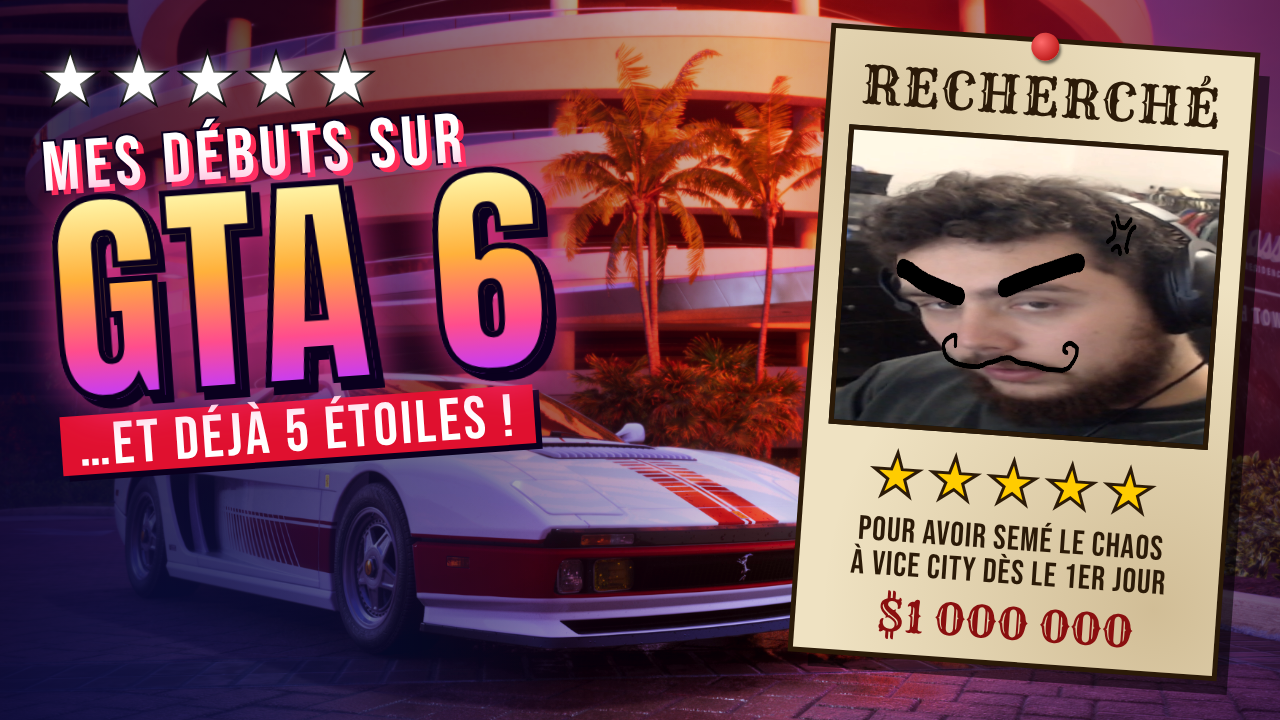
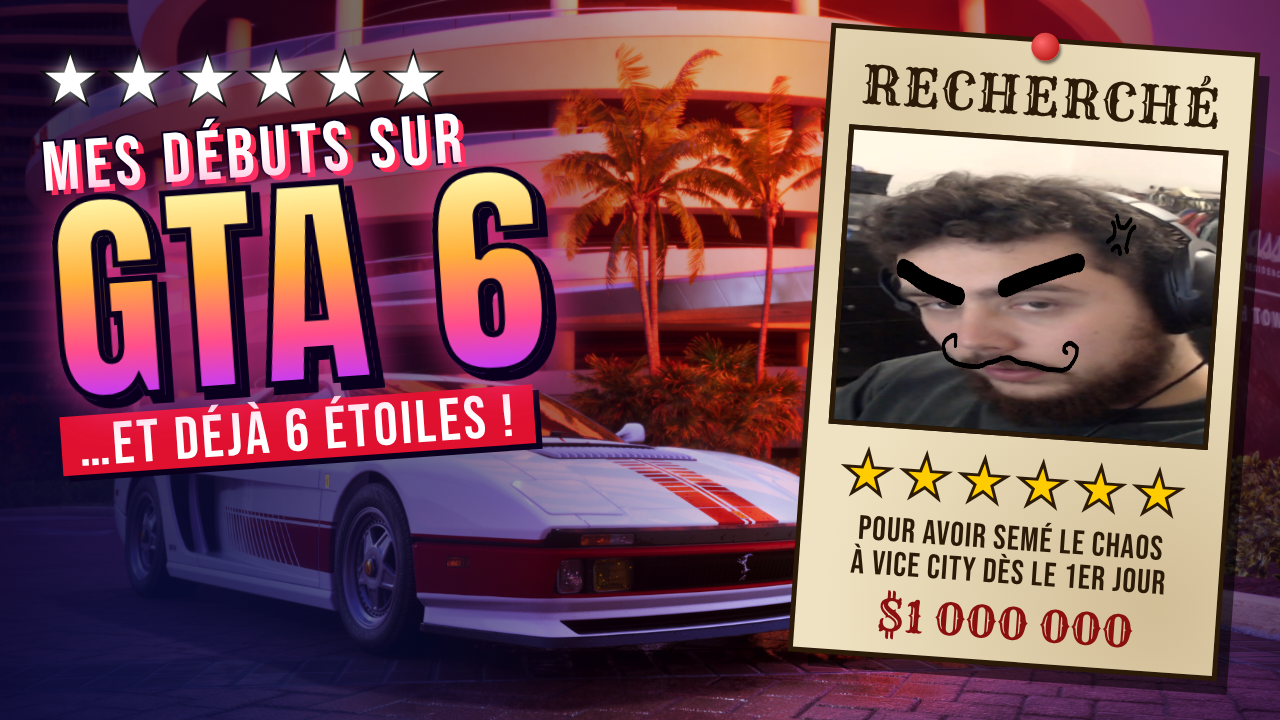
Miniature avis de recherche : passage à 6 étoiles
Claude-Session: https://claude.ai/code/session_01LJ5P5jm4XEp8Dd6zKwhc6v

Changed region(s): [[0.6562, 0.6111, 0.9375, 0.7333], [0.2812, 0.0611, 0.3438, 0.1528], [0.2188, 0.5806, 0.25, 0.6111]]

diff --git a/miniature/miniature-recherche.html b/miniature/miniature-recherche.html
@@ -32,13 +32,13 @@
 <div id="thumb">
   <img class="bg" src="assets/gta6-cheetah-officiel.jpg">
   <div class="grade"></div>
-  <div class="hud"><span>★</span><span>★</span><span>★</span><span>★</span><span>★</span></div>
-  <div class="title"><div class="t1">MES DÉBUTS SUR</div><div class="t3">GTA 6</div><div class="t4">…ET DÉJÀ 5 ÉTOILES&nbsp;!</div></div>
+  <div class="hud"><span>★</span><span>★</span><span>★</span><span>★</span><span>★</span><span>★</span></div>
+  <div class="title"><div class="t1">MES DÉBUTS SUR</div><div class="t3">GTA 6</div><div class="t4">…ET DÉJÀ 6 ÉTOILES&nbsp;!</div></div>
   <div class="poster">
     <div class="pin"></div>
     <div class="rech">RECHERCHÉ</div>
     <div class="photo"><img src="assets/photo.png"></div>
-    <div class="stars">★★★★★</div>
+    <div class="stars">★★★★★★</div>
     <div class="crime">POUR AVOIR SEMÉ LE CHAOS<br>À VICE CITY DÈS LE 1er JOUR</div>
     <div class="prime">$1 000 000</div>
   </div>
